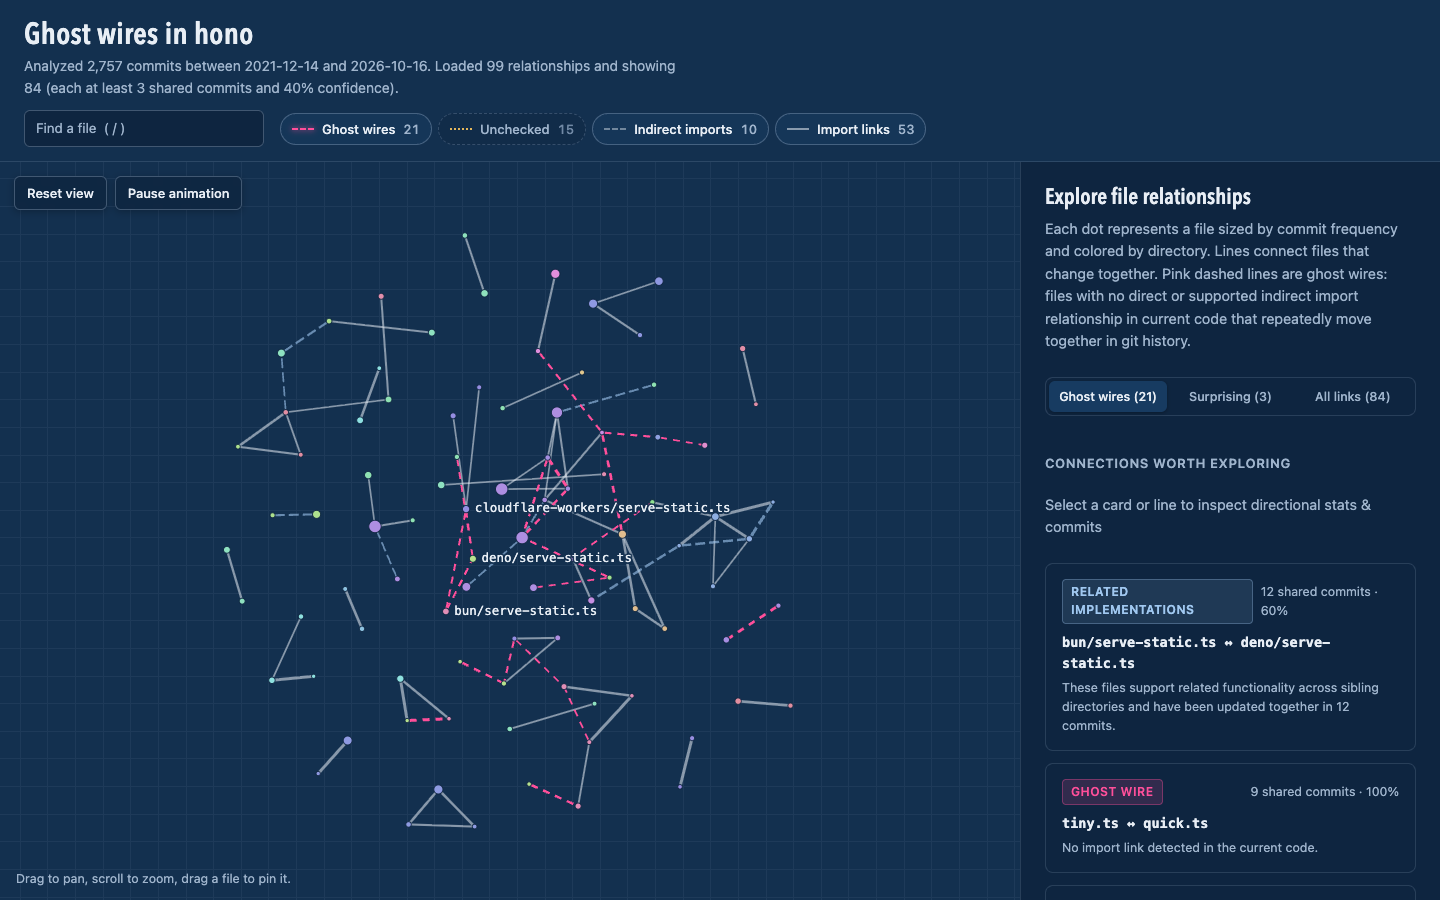
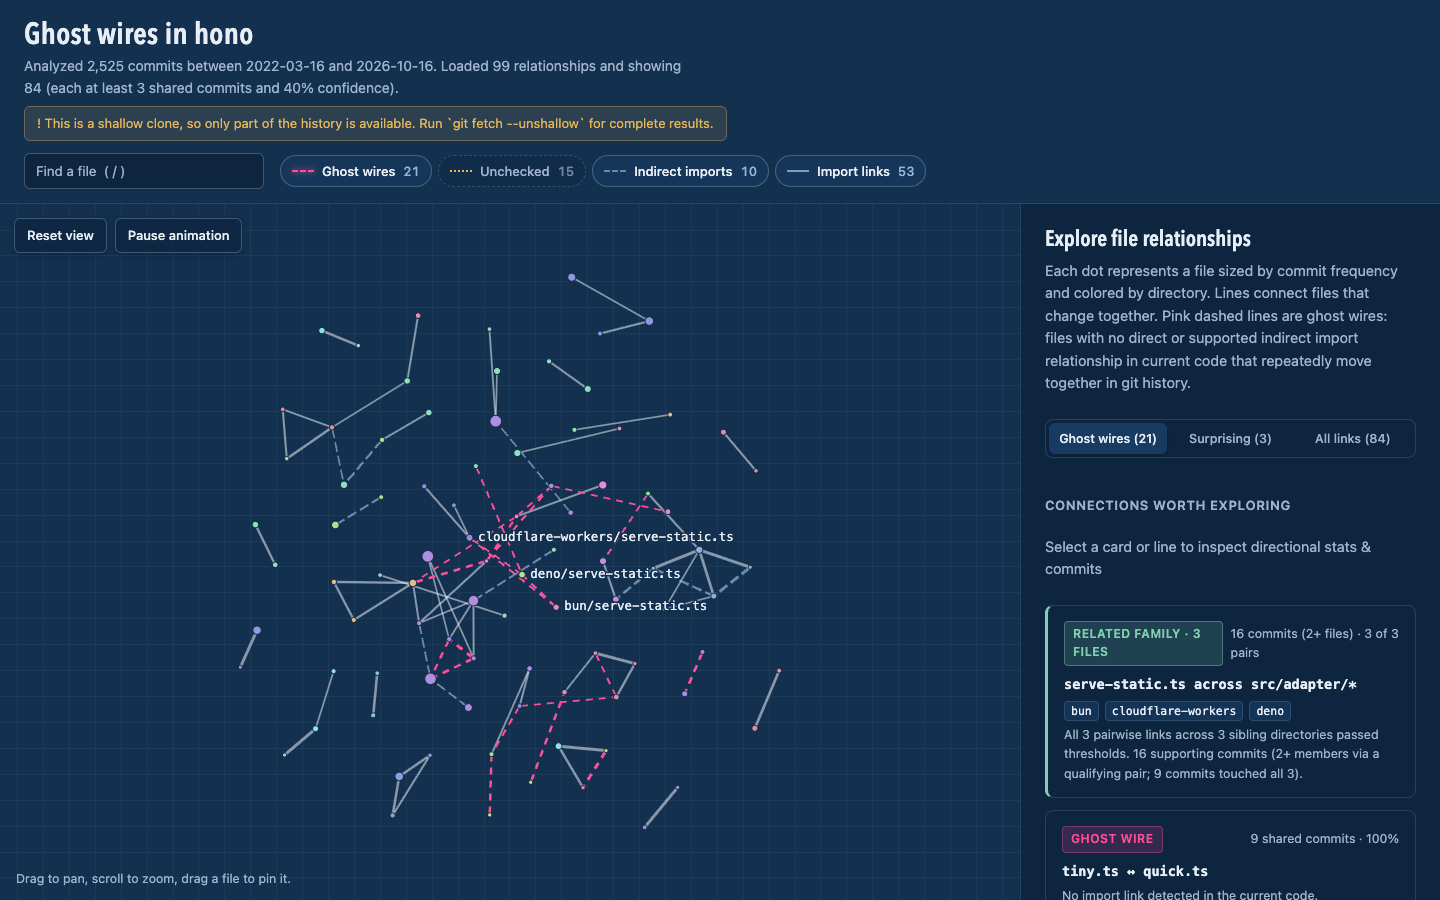
chore(release): v0.2.0

diff --git a/README.md b/README.md
@@ -68,6 +68,12 @@ $ npx repo-archaeology diff --base main
 
 You changed 1 file.
 
+Related families (1)
+
+  serve-static.ts across src/adapter/*  3 files · 3 of 3 pairs · 16 commits (2+ files; 9 all 3)
+    Changed (1): bun
+    Check (2): cloudflare-workers, deno
+
 Possibly missed (2)
 
   src/adapter/deno/serve-static.ts  ghost wire
@@ -94,6 +100,12 @@ Run `scan` to audit hidden coupling and ghost wires across your entire repositor
 ```text
 $ npx repo-archaeology scan
 
+Related families (3)
+
+  serve-static.ts across src/adapter/*  3 files · 3 of 3 pairs · 16 commits (2+ files; 9 all 3)
+    bun, cloudflare-workers, deno
+    All 3 pairwise links across 3 sibling directories passed thresholds. 16 supporting commits (2+ members via a qualifying pair; 9 commits touched all 3).
+
 Top relationships in hono (2,757 commits analyzed):
   1. src/adapter/bun/serve-static.ts ↔ src/adapter/deno/serve-static.ts
      Parallel implementations · 12 shared commits · 63% → / 52% ←
@@ -101,7 +113,7 @@ Top relationships in hono (2,757 commits analyzed):
      Ghost wire (no import link) · 7 shared commits · 87% → / 38% ←
 ```
 
-Repo Archaeology inspects TypeScript ASTs for shared environment variables, event names, or route patterns to give you evidence of why they might be coupled.
+When three or more sibling parallel implementations form a connected co-change group, `scan` summarizes them as a **Related family** above the individual pairs, distinguishing complete families from partial connected components. Repo Archaeology also inspects TypeScript ASTs for shared environment variables, event names, or route patterns to give you evidence of why files might be coupled.
 
 ## Commands
 
@@ -119,7 +131,9 @@ Every command accepts `--json`. Run `repo-archaeology --help` for all options.
 
 ### `diff`
 
-Looks at staged, unstaged and untracked changes (renames included). With `--base main`, it also includes the commits on your branch since it forked from `main`, so it works as a pre-PR check.
+Looks at staged, unstaged and untracked changes (renames included). With `--base main`, it also includes the commits on your branch since it forked from `main`, so it works as a pre-PR check. When `--base <ref>` is passed, co-change history is trained strictly at the merge-base (`git merge-base HEAD <ref>`) rather than `HEAD`, preventing commits already on your feature branch from self-reinforcing baseline statistics while still bridging branch-local renames.
+
+When three or more sibling parallel implementations form a connected co-change group and your change touches part of the family, `diff` surfaces a **Related families** summary (`Changed` vs `Check` members) above the individual pairwise suggestions. If `diff` finds changed files in history but zero suggestions pass thresholds, it prints an **Explain My Silence** breakdown showing why (for example, files are new or only appeared in skipped sweep commits, all historical companions are already in your change, or the closest companions fell below `--min-shared` or `--min-confidence`).
 
 ```bash
 repo-archaeology diff --base main
@@ -139,7 +153,7 @@ Historical patches show what changed in the same commit, not proof of why the fi
 
 ### `map`
 
-Writes a single self-contained HTML file (no network requests, works offline) and opens it. Files are dots sized by churn and coloured by folder; ghost wires are pink dashed lines. Click a file or wire to see directional co-change rates, shared commits, counterexample commits where one file changed without the other, and a copyable `npx repo-archaeology explain <fileA> <fileB>` command.
+Writes a single self-contained HTML file (no network requests, works offline) and opens it. Files are dots sized by churn and coloured by folder; ghost wires are pink dashed lines. Click a file or wire to see directional co-change rates, shared commits, counterexample commits where one file changed without the other, and a copyable `npx repo-archaeology explain <fileA> <fileB>` command. When three or more sibling parallel implementations move together, the overview groups them into a **Related family** card with member coverage, supporting commit counts (`2+ files` vs `all N`), active filter updates, and per-pair inspection (including undrawn pairs when capped or filtered).
 
 By default the map is written to `.git/repo-archaeology/map.html`, which is never committed. Use `--out` to put it elsewhere. **Privacy when sharing:** source-code patches are omitted by default, but the HTML still contains repository file paths, author names, and commit subjects—treat it like repository metadata when sharing. Pass `--include-patches` (`repo-archaeology map --include-patches`) to embed bounded diff hunks for top relationships directly into the HTML file; because `--include-patches` embeds source-code lines, only share those reports with audiences who have access to the source code.
 
@@ -160,6 +174,8 @@ popularity, same changes         65%     13%          5%            87%       3%
 Use it to choose thresholds for your repo. To avoid fooling yourself, tune with `--before <date>` (an older window) and look at the final score once without it.
 
 `repo-archaeology backtest --ghosts` adds a diagnostic breakdown of the original top-k suggestions that are ghost wires in today's working tree. It reports raw query/suggestion counts, hit rate and precision without altering the main scores. **Current imports leak future information**, including with `--before`; missing current files are excluded. This is neither an unbiased historical ghost-accuracy estimate nor a simulation of filtering to ghosts before ranking.
+
+`repo-archaeology backtest --follow-ups [--follow-up-window <commits>]` evaluates multi-commit omissions by checking whether files suggested for a commit were untouched in that commit, then subsequently modified by the same author in a likely follow-up fix commit (`fix`, `bug`, `hotfix`, `revert`, `forgot`, `missed`, `followup`, etc.) within the next `N` commits (default `5`). Follow-up matches are heuristic proxies for multi-commit follow-ups, not proof of prevented bugs.
 
 ## How to read the results
 
@@ -243,7 +259,7 @@ Known limits:
 
 ## Project status
 
-The v0.1 implementation is complete and tested, but the product hypothesis is not yet validated. The built-in `backtest` measures suggestion quality; the remaining question is whether developers choose to run `diff` again after trying it. See [ROADMAP.md](https://github.com/lbrodie11/repo-archaeology/blob/main/ROADMAP.md) for upcoming milestones and project direction.
+The v0.2 implementation is complete and tested, including pre-change baseline isolation (`diff --base`), Explain My Silence diagnostics, the follow-up fix benchmark (`backtest --follow-ups`), Evidence Explorer (`explain` and `map --include-patches`), and Finding Families across `scan`, `diff`, and `map`. See [ROADMAP.md](https://github.com/lbrodie11/repo-archaeology/blob/main/ROADMAP.md) for upcoming milestones and project direction.
 
 Repo Archaeology currently understands JavaScript and TypeScript imports. Other file types still participate in history analysis, but their import relationships may be marked **unchecked**.
 
